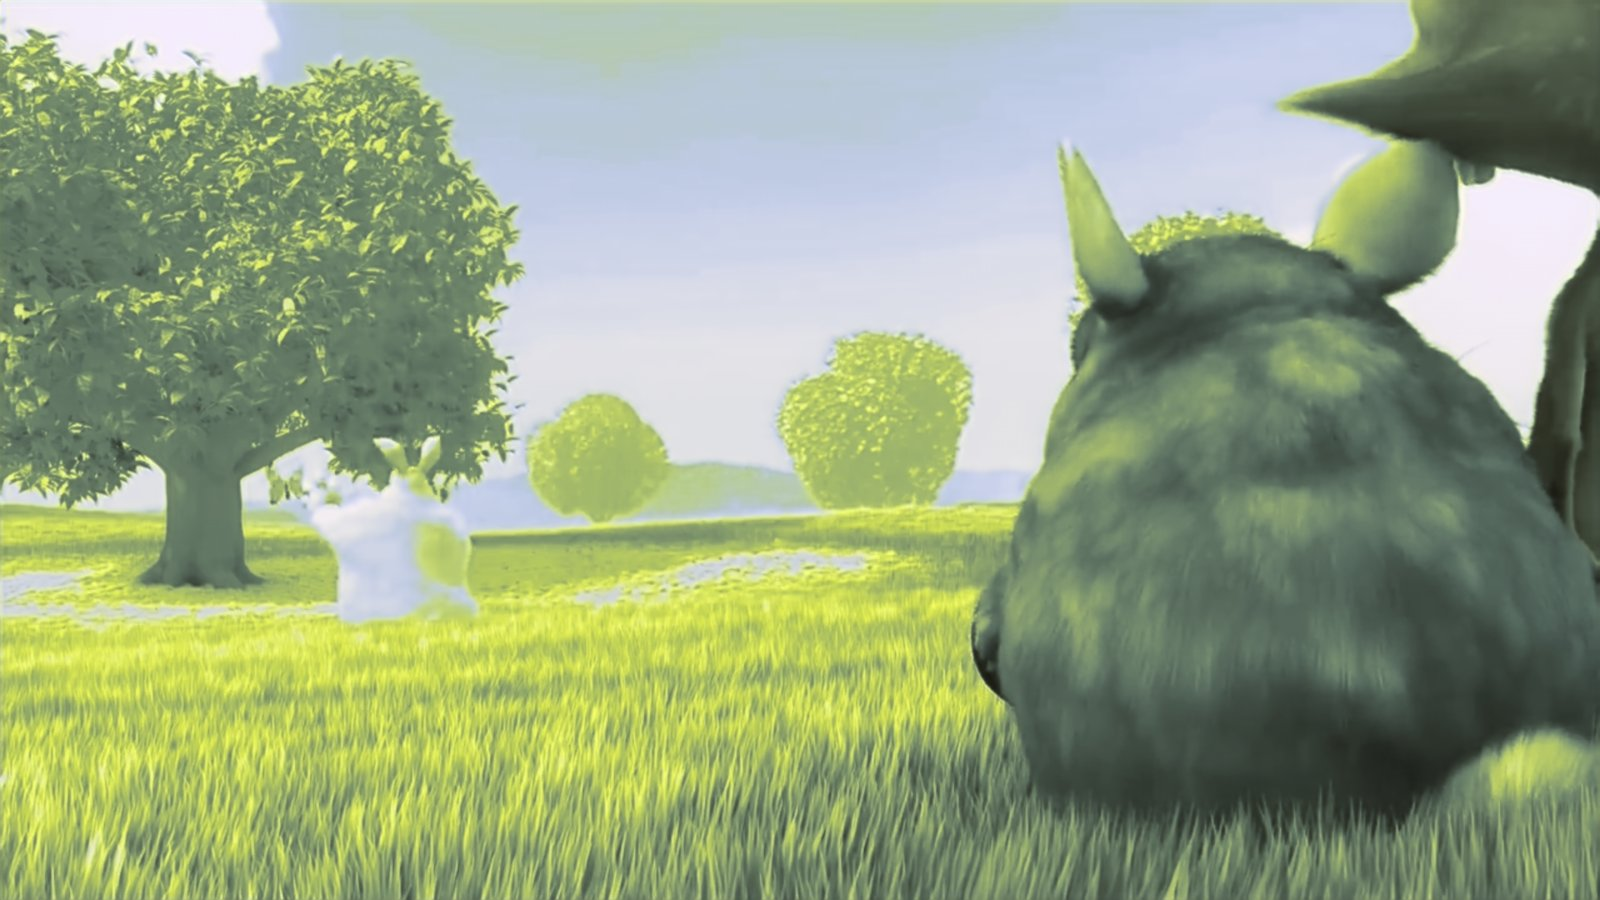
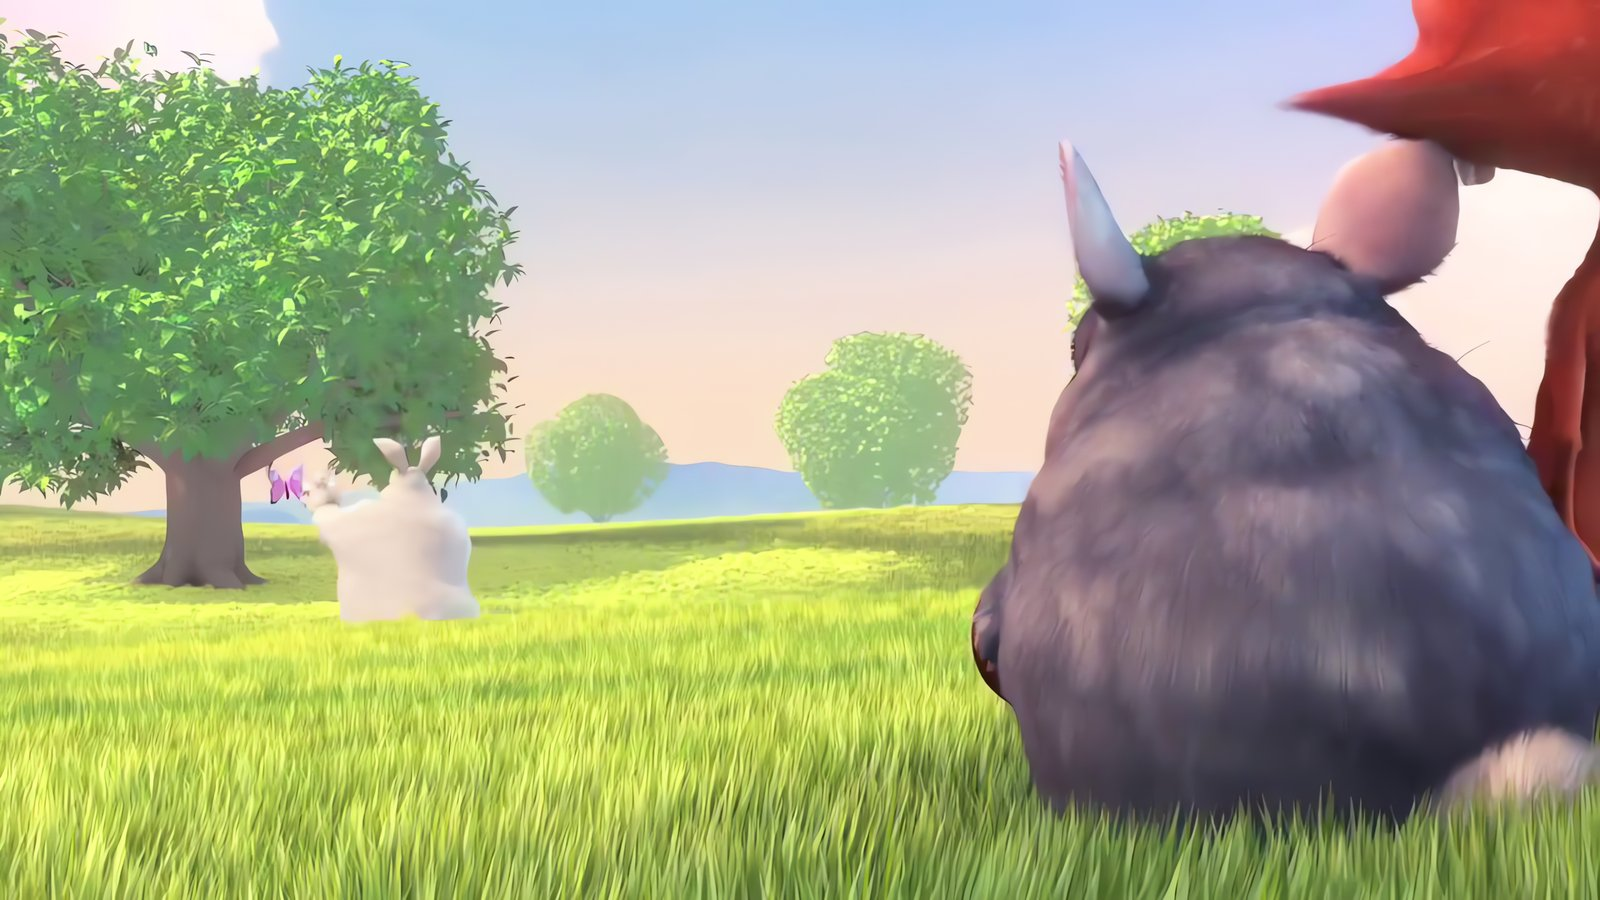
docs: replace README demo with current-model output, add media provenance

diff --git a/README.ar.md b/README.ar.md
@@ -40,27 +40,27 @@
 ## نظرة بصرية سريعة
 
 <p align="center">
-  <img src="docs/media/gui-screenshot.png" alt="واجهة مُكبِّر الأنمي: قائمة الملفات، ووضعا Single/Batch، واختيار النموذج، ولوحتا المعاينة، ومراقب وحدة معالجة الرسومات، ولوحة السجلات، وأزرار الإجراءات" width="900">
+  <img src="docs/media/gui-screenshot.png" alt="واجهة مُكبِّر الأنمي، تبويب Models: قائمة نقاط التفتيش المثبَّتة بأسماء ملفاتها ومعمارياتها وأحجامها، وقائمة النماذج الجاهزة المنسدلة وفيها Real-ESRGAN Anime v3 (srvgg, 4x)، وأدوات الاستيراد" width="900">
 </p>
 
-<p align="center"><sub>الواجهة الرسومية المستقلة لنظام Windows (<code>anime-upscaler-gui 0.2.0</code>، إصدار مسبق) مأخوذة من بيئة تطوير هذا المستودع. هذه هي الواجهة الفعلية بقائمة انتظار فارغة: تُنزَّل أوزان النماذج أو تُستورَد منفصلةً، لذا لا تحتوي حزمة wheel على أي محتوى تجريبي.</sub></p>
+<p align="center"><sub>الواجهة الرسومية المستقلة لنظام Windows (<code>anime-upscaler-gui 0.2.0</code>، إصدار مسبق) على تبويب <strong>Models</strong>: نقاط التفتيش المثبَّتة وكتالوج النماذج الجاهزة، مأخوذة من بيئة تطوير هذا المستودع. تُنزَّل أوزان النماذج أو تُستورَد من هنا، ولا تحتوي حزمة wheel على نقاط تفتيش.</sub></p>
 
 ### قبل / بعد
 
-الزوج أدناه هو العيّنة التجريبية الموثَّقة في المستودع: إطار بدقة 1280x720 من `assets/examples/lr.png` ومخرجه التجريبي بتكبير 4x في `assets/examples/output.png`، مع تصغير للعرض على الويب. هذه عيّنة تجريبية من المستودع وليست مقارنة قياس أداء؛ ويتبدّل المظهر واللون حسب النموذج والعينة.
+الزوج أدناه هو عيّنة المشروع التجريبية: إطار بدقة 1280x720 من [`assets/examples/lr.png`](assets/examples/lr.png) ومخرجه بتكبير 4x الناتج عن منظومة الإصدار 0.2.0-preview (معمارية `srvgg` مع نقطة التفتيش التجريبية `pretrained/realesr-animevideov3.pth`، واستدلال بالبلاطات)، وقد صُغِّر كلاهما للعرض على الويب. هذه عيّنة تجريبية من المشروع وليست مقارنة قياس أداء؛ ويتبدّل المظهر واللون حسب النموذج والعينة. الملف `assets/examples/output.png` أصل تاريخي قديم وليس المخرج المعروض هنا.
 
 | المدخل (1280x720) | المخرج 4x (5120x2880) |
 |:--:|:--:|
-| ![إطار المدخل من الزوج التجريبي في المستودع](docs/media/example-lr.jpg) | ![إطار المخرج بعد التكبير 4x من الزوج التجريبي في المستودع](docs/media/example-sr.jpg) |
+| ![المدخل: إطار بدقة 1280x720 من assets/examples/lr.png](docs/media/example-lr.jpg) | ![المخرج: تكبير 4x بنموذج realesr-animevideov3 بدقة 5120x2880](docs/media/example-sr.jpg) |
 
-<p align="center"><sub>ملفا العيّنة: <a href="assets/examples/lr.png"><code>assets/examples/lr.png</code></a> و<a href="assets/examples/output.png"><code>assets/examples/output.png</code></a> (تكبير 4x من إنتاج المشروع). الأرقام المذكورة في مواضع أخرى من هذا الملف مُبلَّغ عنها من المشروع.</sub></p>
+<p align="center"><sub>صور العيّنة: <a href="assets/examples/lr.png"><code>assets/examples/lr.png</code></a> (المدخل) ومخرج بتكبير 4x وُلِّد بمنظومة الإصدار 0.2.0-preview التجريبية (<code>realesr-animevideov3</code>، معالجة بالبلاطات). الأصل والأبعاد وSHA-256 لهذه الملفات الملتزمة موثَّقة في <a href="docs/media/README.md"><code>docs/media/README.md</code></a>. الأرقام المذكورة في مواضع أخرى من هذا الملف مُبلَّغ عنها من المشروع.</sub></p>
 
 ### مقارنة التفاصيل (اقتصاص 100%)
 
-يعرض اللوحان المنطقة نفسها من المدخل بمقاس 320x180 معروضةً بمقاس 640x360 للمقارنة: اللوح الأيسر هو المدخل مكبَّراً بطريقة أقرب جار (nearest-neighbour) فتظهر وحدات البكسل، واللوح الأيمن هو المخرج 4x المناظر مصغَّراً إلى مقاس العرض نفسه. أُدرجت المقارنة كعيّنة صادقة من الزوج التجريبي، لا كقياس جودة.
+يعرض اللوحان المنطقة نفسها من المدخل عند (100, 280) بمقاس 320x180 معروضةً بمقاس 640x360 للمقارنة: اللوح الأيسر هو المدخل مكبَّراً بطريقة أقرب جار (nearest-neighbour) فتظهر وحدات البكسل، واللوح الأيمن هو المخرج 4x المناظر بنموذج realesr-animevideov3 مصغَّراً إلى مقاس العرض نفسه. أُدرجت المقارنة كعيّنة صادقة من منظومة العرض، لا كقياس جودة.
 
 <p align="center">
-  <img src="docs/media/example-detail.png" alt="مقارنة تفاصيل: على اليسار المدخل مكبَّراً بأقرب جار، وعلى اليمين المخرج 4x بمقاس العرض نفسه" width="1000">
+  <img src="docs/media/example-detail.png" alt="مقارنة تفاصيل: على اليسار منطقة من المدخل بدقة 1280x720 مكبَّرة بأقرب جار، وعلى اليمين المنطقة نفسها من مخرج 4x بنموذج realesr-animevideov3 بمقاس العرض نفسه" width="1000">
 </p>
 
 ### كيف تعمل منظومة الواجهة الرسومية
@@ -75,7 +75,7 @@ flowchart LR
     D --> E["Output file<br/>audio preserved"]
 ```
 
-- **حزمة wheel مستقلة.** تحتوي حزمة wheel المُصدَرة على الواجهة الرسومية وشيفرة النماذج؛ وتُنزَّل نقاط التفتيش أو تُستورَد عبر تبويب **Models**. لا يُرسَل أي شيء إلى خادم ولا حاجة إلى حساب.
+- **حزمة wheel مستقلة.** تحتوي حزمة wheel المُصدَرة على الواجهة الرسومية وشيفرة النماذج؛ وتُنزَّل نقاط التفتيش أو تُستورَد عبر تبويب **Models** (الظاهر في الصورة أعلاه). لا يُرسَل أي شيء إلى خادم ولا حاجة إلى حساب.
 - **تراعي العتاد.** يعمل الاستدلال على المعالج دائماً، وتُستخدم CUDA عند توفرها، وتحدّ دقة FP16 ومعالجة البلاطات من استهلاك VRAM، ويعود المُرمِّز من NVENC إلى libx264 عند عدم توفر الترميز العتادي.
 - **معالجة الفيديو.** يُحافَظ على المسار الصوتي الأصلي، وتُعالَج الملفات الطويلة عبر قائمة انتظار دفعية مع إيقاف مؤقت واستئناف وإلغاء.
 

diff --git a/README.md b/README.md
@@ -38,27 +38,27 @@ Anime upscaling in PyTorch, shipped in two forms: a standalone **Windows anime u
 ## Visual overview
 
 <p align="center">
-  <img src="docs/media/gui-screenshot.png" alt="Anime Upscaler GUI: file queue, Single/Batch mode, model picker, preview panes, GPU monitor, log panel, and action buttons" width="900">
+  <img src="docs/media/gui-screenshot.png" alt="Anime Upscaler GUI, Models tab: installed checkpoints listed with file names, architecture kinds and sizes; the preset catalog dropdown showing Real-ESRGAN Anime v3 (srvgg, 4x); and import controls" width="900">
 </p>
 
-<p align="center"><sub>The standalone Windows GUI (<code>anime-upscaler-gui 0.2.0</code>, preview) captured from this repository's development environment. This is the real app with an empty queue: model weights are downloaded or imported separately, so the wheel ships no demo content.</sub></p>
+<p align="center"><sub>The standalone Windows GUI (<code>anime-upscaler-gui 0.2.0</code>, preview) on its <strong>Models</strong> tab: installed checkpoints and the preset catalog, captured from this repository's development environment. Model weights are downloaded or imported here; the wheel ships no checkpoints.</sub></p>
 
 ### Before / after
 
-The pair below is the repository's own documented demo sample: a 1280x720 frame from the project's `assets/examples/lr.png` and its 4x demo output `assets/examples/output.png`, downscaled for the web. It is a project demo from the repository, not a benchmark comparison; appearance and colour depend on the model and the sample.
+The pair below is the repository's own demo sample: a 1280x720 frame from [`assets/examples/lr.png`](assets/examples/lr.png) and its 4x output produced by the shipped 0.2.0-preview pipeline (the `srvgg` architecture with the demo checkpoint `pretrained/realesr-animevideov3.pth`, tiled inference), both downscaled for the web. It is a project demo, not a benchmark comparison; appearance and colour depend on the model and the sample. The older `assets/examples/output.png` file is a historical legacy asset and is not the output shown here.
 
 | Input (1280x720) | Output 4x (5120x2880) |
 |:--:|:--:|
-| ![Input frame from the repository demo pair](docs/media/example-lr.jpg) | ![4x output frame from the repository demo pair](docs/media/example-sr.jpg) |
+| ![Input: 1280x720 frame from assets/examples/lr.png](docs/media/example-lr.jpg) | ![Output: 4x realesr-animevideov3 upscale, 5120x2880](docs/media/example-sr.jpg) |
 
-<p align="center"><sub>Demo assets: <a href="assets/examples/lr.png"><code>assets/examples/lr.png</code></a> and <a href="assets/examples/output.png"><code>assets/examples/output.png</code></a> (4x upscale produced by the project). Numbers quoted elsewhere in this README are project-reported.</sub></p>
+<p align="center"><sub>Demo images: <a href="assets/examples/lr.png"><code>assets/examples/lr.png</code></a> (input) and a 4x upscale generated by the shipped 0.2.0-preview demo pipeline (<code>realesr-animevideov3</code>, tiled). Provenance, dimensions and SHA-256 of these committed files: <a href="docs/media/README.md"><code>docs/media/README.md</code></a>. Numbers quoted elsewhere in this README are project-reported.</sub></p>
 
 ### Detail comparison (100% crop)
 
-Both panels show the same 320x180 input region displayed at 640x360 for comparison: the left panel is the input enlarged with nearest-neighbour (so pixel blocks are visible), and the right panel is the corresponding 4x output downscaled to the same display size. It is included as an honest sample of the demo pair, not as a quality benchmark.
+Both panels show the same 320x180 input region at (100, 280) displayed at 640x360 for comparison: the left panel is the input enlarged with nearest-neighbour (so pixel blocks are visible), and the right panel is the corresponding 4x realesr-animevideov3 output downscaled to the same display size. It is included as an honest sample of the demo pipeline, not as a quality benchmark.
 
 <p align="center">
-  <img src="docs/media/example-detail.png" alt="Detail crop comparison: left, the input enlarged with nearest-neighbour; right, the 4x output at the same display size" width="1000">
+  <img src="docs/media/example-detail.png" alt="Detail comparison: left, the 1280x720 input enlarged with nearest-neighbour; right, the same region from the 4x realesr-animevideov3 output at the same display size" width="1000">
 </p>
 
 ### How the GUI pipeline works
@@ -73,7 +73,7 @@ flowchart LR
     D --> E["Output file<br/>audio preserved"]
 ```
 
-- **Standalone wheel.** The released wheel contains the GUI and model code; checkpoints are downloaded or imported through the **Models** tab. Nothing is sent to a server and no account is needed.
+- **Standalone wheel.** The released wheel contains the GUI and model code; checkpoints are downloaded or imported through the **Models** tab (shown in the screenshot above). Nothing is sent to a server and no account is needed.
 - **Hardware-aware.** CPU inference always works; CUDA is used when available, FP16 and tiled processing limit VRAM use, and the encoder falls back from NVENC to libx264 when hardware encoding is unavailable.
 - **Video handling.** The original audio track is preserved, and long files are processed through the batch queue with pause/resume/cancel.
 

diff --git a/docs/media/README.md b/docs/media/README.md
@@ -1,0 +1,53 @@
+# README media assets
+
+Committed images used by the top-level <a href="../../README.md">README.md</a> and its <a href="../../README.ar.md">Arabic translation</a>. Every file is static and self-contained: nothing here is hotlinked or loaded from a third-party host.
+
+## Files
+
+| File | Dimensions | Bytes | SHA-256 | Used by |
+|---|---|---:|---|---|
[5 lines of base64/hex data omitted]
+
+Total: **708,386 bytes (0.68 MB)**, below the 2 MB documentation-media budget.
+
+## Demo pair provenance
+
+- Input: <a href="../../assets/examples/lr.png"><code>assets/examples/lr.png</code></a>, the repository's own example asset (1280x720 landscape frame).
+- 4x output: produced from that input with the shipped 0.2.0-preview inference stack:
+  - checkpoint: `pretrained/realesr-animevideov3.pth` - a **demo checkpoint**, not a released model and not committed to this repository (it is downloaded or imported through the GUI's **Models** tab);
+  - architecture kind: `srvgg`;
+  - scale: 4x;
+  - inference: tiled, tile size 256 px with 8 px overlap;
+  - output: 5120x2880 RGB PNG (kept in the internal review workspace, not committed).
+- Generated 2026-11-16; committed to `docs/media/` on 2026-11-17.
+- `example-lr.jpg`: the input downscaled to 960x540 (JPEG, quality 85, progressive).
+- `example-sr.jpg`: the 4x output downscaled to 1600x900 (JPEG, quality 85, progressive) for the web.
+- `example-detail.png`: two 640x360 panels plus a 30 px label strip and a thin divider. Both panels show the same 320x180 input region at (100, 280): the left panel is the input enlarged 2x with nearest-neighbour, the right panel is the corresponding 4x output region downscaled to 640x360.
+
+These are project demo images, not a benchmark comparison. Benchmark numbers quoted in the README remain project-reported measurements linked to their source documents; these images do not establish a quality claim.
+
+### Legacy asset
+
+<a href="../../assets/examples/output.png"><code>assets/examples/output.png</code></a> is a historical demo output from the initial 2026-06-14 commit, produced by an older run. It is visibly softer and colour-shifted, and it is **not** used by either README. It stays in the repository only as historical content.
+
+## GUI screenshot provenance
+
+`gui-screenshot.png` is a real window capture of `python -m apps.anime_upscaler_gui --no-splash` from this development checkout (`anime-upscaler-gui 0.2.0`):
+
+- captured with the Win32 `PrintWindow` API (`PW_RENDERFULLCONTENT`) against the app window only - no desktop capture, no compositing, no mocked or edited UI content;
+- cropped to the app's **Models** tab; the preview/status/log area below the tab is not included in the image;
+- the state shown (installed checkpoint list, selected row, preset catalog) is real installed-model metadata from the development environment, reached through the app's own controls.
+
+Checkpoint weights are not part of the repository, so the installed list can differ between machines.
+
+## Banner provenance
+
+`banner.png` is derived from the GUI's bundled splash artwork, <a href="../../apps/anime_upscaler_gui/anime_upscaler_gui/assets/splash/hero-800x600.png"><code>hero-800x600.png</code></a>. It is converted to RGB and quantised to a 256-colour palette to keep the repository light; the 800x600 dimensions are preserved.
+
+## Third-party content
+
+The demo input is the repository's own example asset. No third-party anime frames or third-party output images are included, and no image is loaded from an external host.
